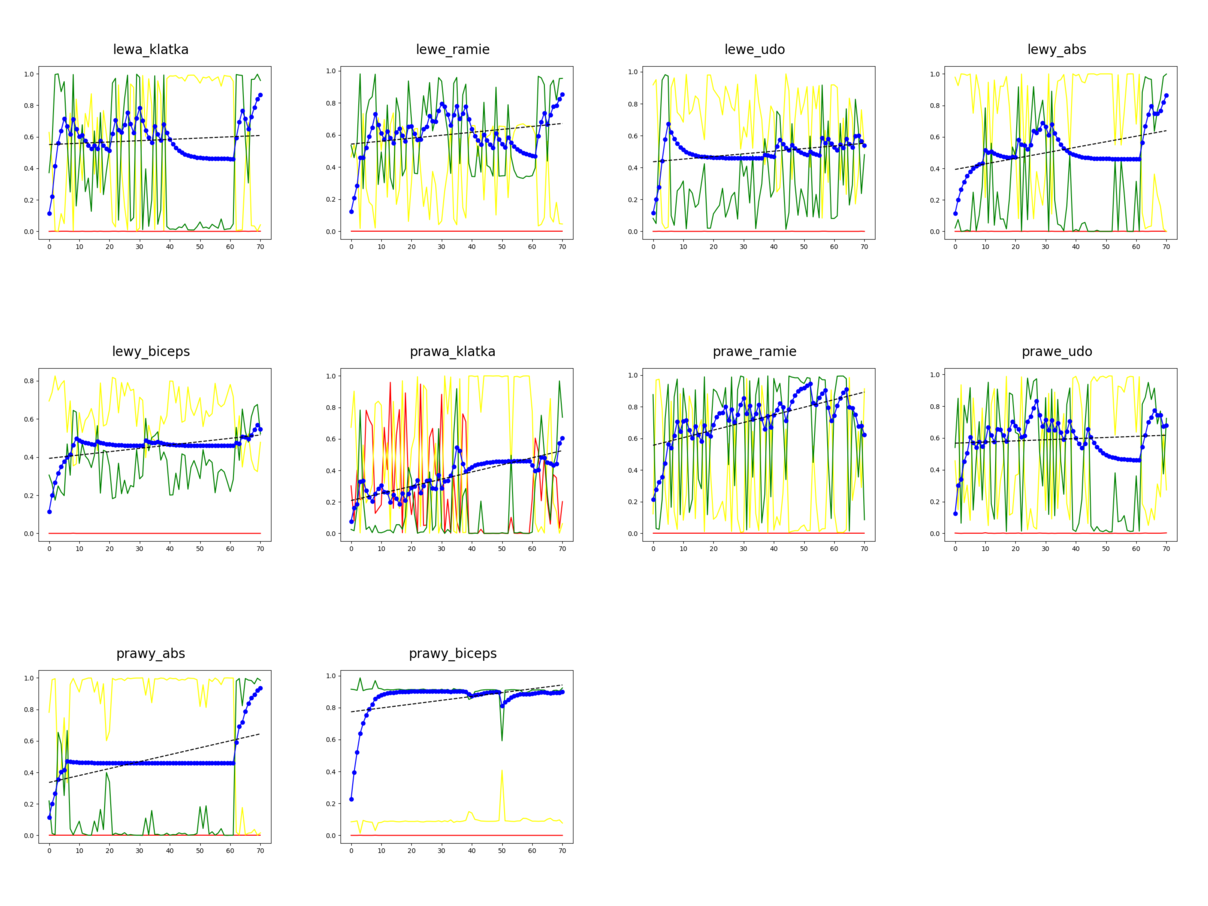
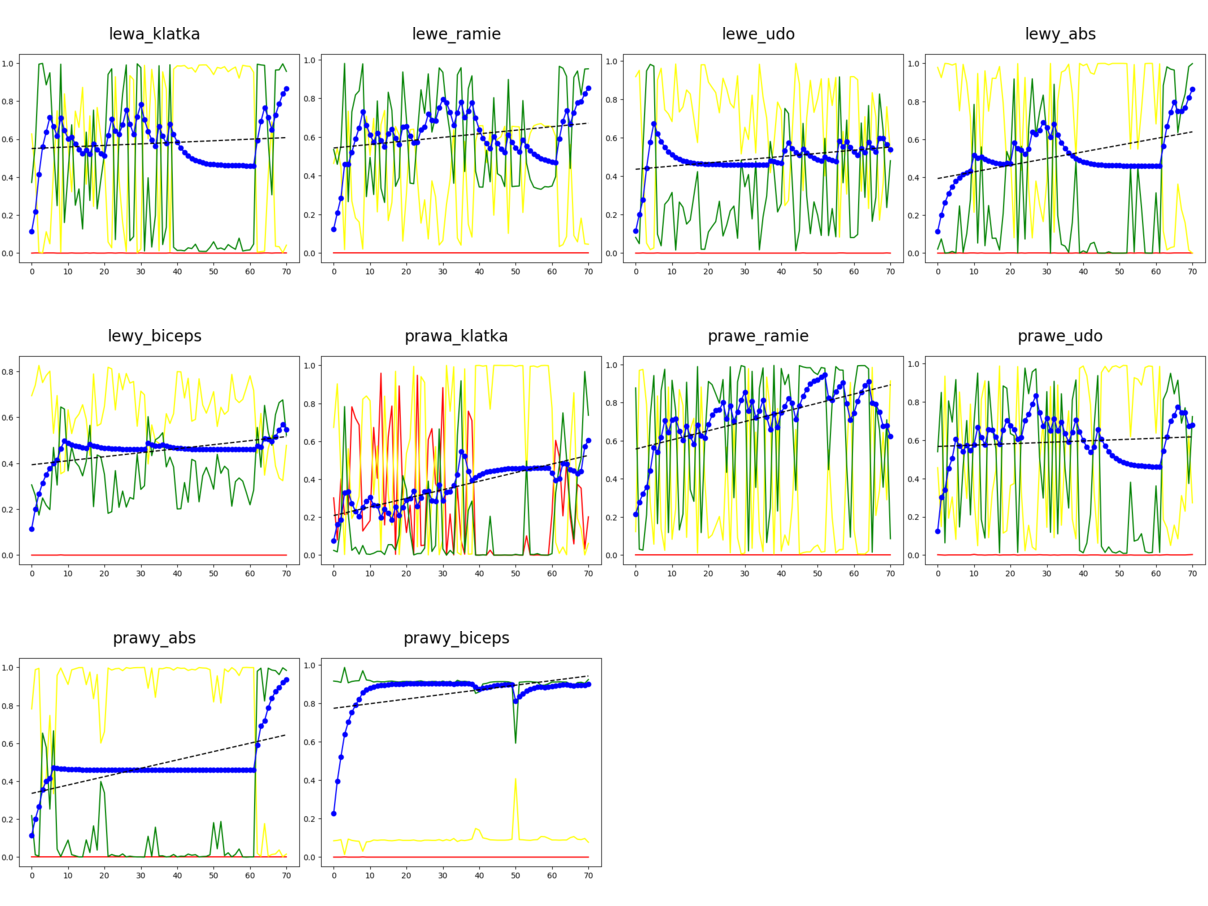
fix: usuniete marginesy

Changed region(s): [[0.0, 0.0309, 1.0, 0.3091], [0.0, 0.3709, 1.0, 0.649], [0.0, 0.6799, 0.4901, 0.9581]]

diff --git a/time.py b/time.py
@@ -42,7 +42,7 @@ def gen_plot(R, name):
 
     plt.plot(X,Y4, 'bo', X, fit_fn(X), '--k')
 
-    plt.savefig('output/{}.png'.format(name))
+    plt.savefig('output/{}.png'.format(name),bbox_inches = 'tight',pad_inches = 0)
 
 net_names = ['lewy_abs', 'prawy_abs', 'prawa_klatka', 'lewa_klatka', 'prawy_biceps', 'lewy_biceps', 'prawe_ramie', 'lewe_ramie', 'prawe_udo', 'lewe_udo', 'prawa_lydka', 'lewa_lydka']
 
